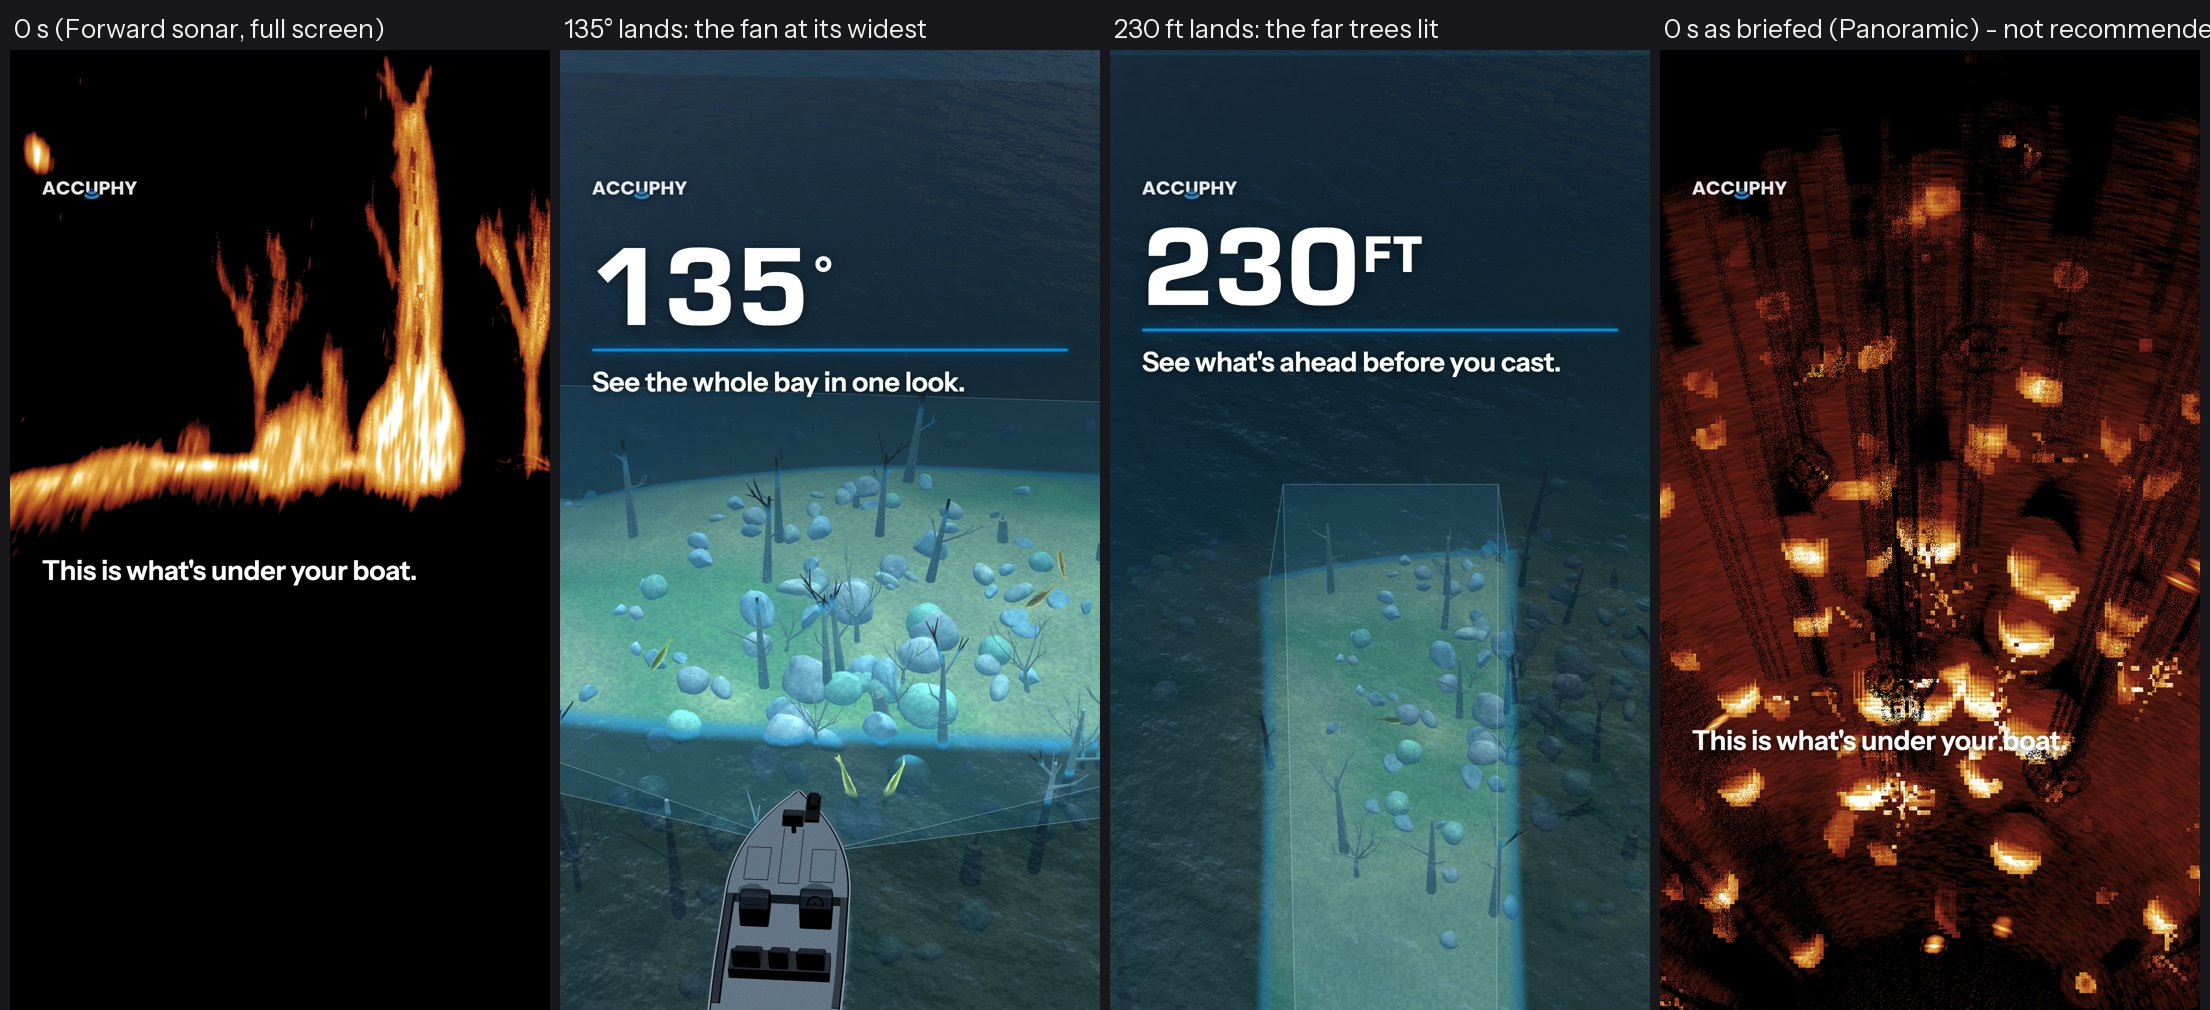
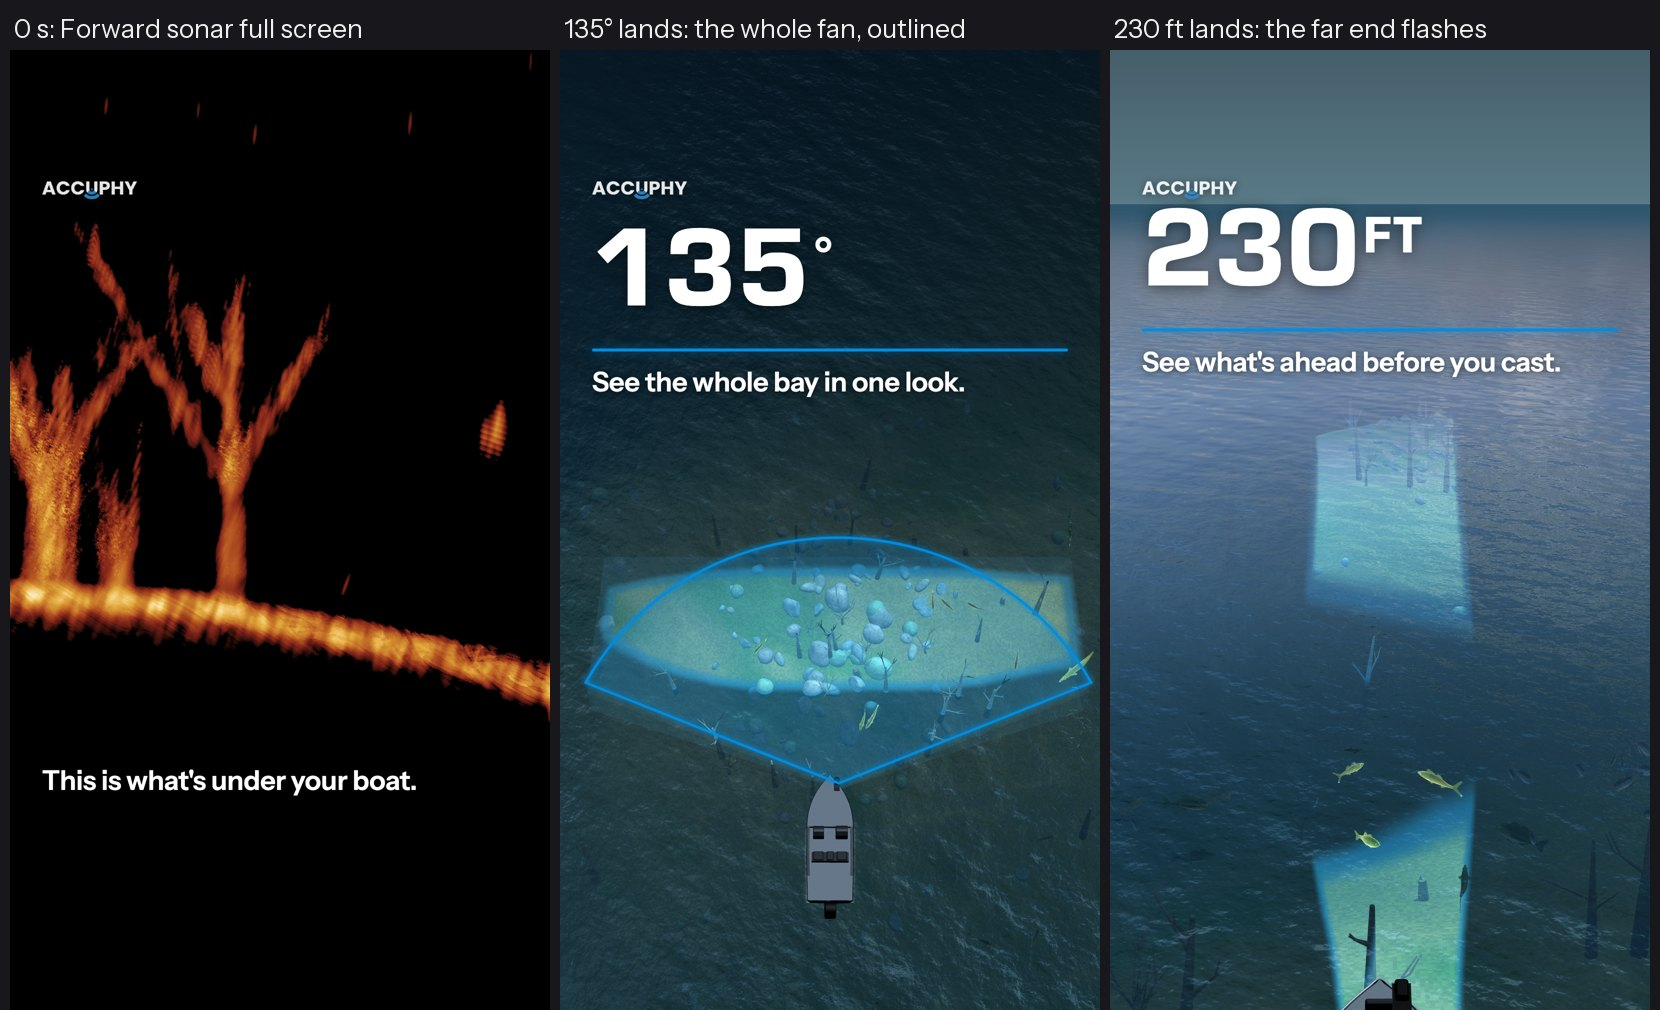
Ad v2 stills, round 2: Forward sonar fills the frame, the whole 135° fan outlined, the 230 ft far end flashes; Creative Cloud Eurostile; dev knobs adBeam / adFlash / __camera

diff --git a/src/experiments/2026-09-23-sonar-lake-3d/lakeMaterial.js b/src/experiments/2026-09-23-sonar-lake-3d/lakeMaterial.js
@@ -33,6 +33,7 @@ export function makeLakeMaterial({ fish = false, structure = false, steel = fals
     uOutGamma: { value: 1.0 },   // ice scene: < 1 brightens the dark water world a little (main view only)
     uAirView: { value: 0.0 },    // the summer lake (Scene.jsx): seen from above the water, the water column over each point tints it — shallows clear, deep water dark — and light patterns play on the shallows; 0 (the ice page, any camera under water): fog by distance as before
     uTime: LAKE_TIME,
+    uFarFlash: { value: new THREE.Vector3(0, 30, 60) }, // dev (ads): a lift of the beam's far part — amount, from, to (metres from the apex); 0 = off
     uBeamGain: { value: 1.0 },   // ice scene: the signal gate (IceCamp.jsx s.signal): the lit footprint fades out while the Mini is out of the water
     uPanoLobe: { value: new THREE.Vector2(0, 0.61) }, // Panoramic as a sound picture (#171): x = on, y = the strip camera's depression (rad); the fish pass weights by the flat fan's lobe
     uSplat: { value: new THREE.Vector3(1, 1, 30) }, // sonar pass 3 (echo splat): tan(half width), tan(half thickness), range of the fan being drawn
@@ -126,7 +127,7 @@ export function makeLakeMaterial({ fish = false, structure = false, steel = fals
       uniform vec3 uApex[${MAX_BEAMS}]; uniform vec3 uC[${MAX_BEAMS}]; uniform vec3 uH[${MAX_BEAMS}]; uniform vec3 uN[${MAX_BEAMS}];
       uniform vec4 uAng[${MAX_BEAMS}]; uniform vec2 uRT[${MAX_BEAMS}]; uniform vec4 uBox[${MAX_BEAMS}];
       uniform vec4 uSplatBig; uniform vec2 uPanoLobe; uniform vec3 uSplat;
-      uniform float uReveal; uniform vec3 uHighlight; uniform float uSonarPass; uniform float uRevealGain; uniform float uOutGamma; uniform vec2 uClip; uniform float uBeamGain;
+      uniform float uReveal; uniform vec3 uHighlight; uniform float uSonarPass; uniform float uRevealGain; uniform float uOutGamma; uniform vec2 uClip; uniform float uBeamGain; uniform vec3 uFarFlash;
       uniform float uAirView; uniform float uTime;
       float lhash(vec2 p) { return fract(sin(dot(p, vec2(127.1, 311.7))) * 43758.5453); }
       float lnoise(vec2 p) { vec2 i = floor(p), f = fract(p); f = f * f * (3.0 - 2.0 * f);
@@ -345,6 +346,7 @@ export function makeLakeMaterial({ fish = false, structure = false, steel = fals
         beam *= uBeamGain; edge *= uBeamGain; // the signal gate (1 on the summer lake): after the rim, so the rim fades too instead of widening
         // outside the beam things stay murky; inside they pop (Garmin look)
         vec3 lit = base * (0.72 + 2.3 * beam * uRevealGain) + uHighlight * 0.3 * beam * uRevealGain + uHighlight * 0.9 * edge;
+        if (uFarFlash.x > 0.0) lit += (base * 2.4 + uHighlight * 0.25) * beam * uFarFlash.x * smoothstep(uFarFlash.y, uFarFlash.z, distance(vWorld, uApex[0])); // dev (ads): the far targets light up
       #ifdef LOGO
         // the brand mark keeps Accuphy blue: a gentler beam lift, no cyan wash (the ×3 lift clipped it to cyan)
         lit = base * (0.95 + 0.85 * beam) + uHighlight * 0.06 * beam + uHighlight * 0.5 * edge;

diff --git a/scripts/dev/ads/v2/overlay2.html b/scripts/dev/ads/v2/overlay2.html
@@ -1,7 +1,7 @@
 <!doctype html>
 <html><head><meta charset="utf-8">
 <style>
-  @font-face { font-family: 'Eurostile Heavy'; src: url('fonts/Eurostile-Heavy.otf') format('opentype'); font-weight: 800; }
+  @font-face { font-family: 'Eurostile Heavy'; src: local('Eurostile Heavy'), local('Eurostile-Hea'); font-weight: 800; } /* URW Eurostile Heavy activated by the company's Creative Cloud (HQ 2026-10-26): no font file is shipped or read */
   @font-face { font-family: 'Instrument Sans'; src: url('fonts/InstrumentSans-Variable.ttf') format('truetype'); font-weight: 400 700; }
   html, body { margin: 0; background: #000; }
   #stage { position: relative; width: 1080px; height: 1920px; overflow: hidden; }
@@ -22,6 +22,7 @@
 <div id="stage">
   <img id="bg">
   <div id="grad"></div>
+  <svg id="fan" width="1080" height="1920" style="position:absolute;left:0;top:0;overflow:visible"><defs><filter id="glow" x="-20%" y="-20%" width="140%" height="140%"><feGaussianBlur stdDeviation="6" result="b"/><feMerge><feMergeNode in="b"/><feMergeNode in="SourceGraphic"/></feMerge></filter></defs><path id="fanp" d="" fill="rgba(2,140,223,0.10)" stroke="#028CDF" stroke-width="5" stroke-linejoin="round" filter="url(#glow)"/></svg>
   <img id="mark" src="logo.png">
   <div id="block">
     <div class="num" id="num"><span id="n"></span><span class="unit" id="unit"></span></div>
@@ -34,6 +35,7 @@
   window.setStill = (c) => {
     const $ = (id) => document.getElementById(id)
     $('bg').src = c.bg; $('grad').style.opacity = c.grad ? 1 : 0
+    $('fanp').setAttribute('d', c.fan ? 'M' + [c.fan.apex, ...c.fan.arc].map((q) => q.join(',')).join(' L') + ' Z' : '') // the beam's 135° on the water, projected from the 3D view
     $('block').style.top = c.top + 'px'
     $('num').classList.toggle('hidden', !c.num); $('rule').classList.toggle('hidden', !c.num)
     $('n').textContent = c.num || ''; $('unit').textContent = c.unit || ''

diff --git a/src/experiments/2026-09-23-sonar-lake-3d/Scene.jsx b/src/experiments/2026-09-23-sonar-lake-3d/Scene.jsx
@@ -541,6 +541,7 @@ function Boat({ state, beamMats }) {
     group.current.position.set(s.boat.x, 0.02, s.boat.z)
     s.apex.copy(TRANSDUCER_OFFSET).add(group.current.position)
     setBeamUniforms(beamMats, fanned(s), s.apex)
+    if (import.meta.env.DEV) { const f = s.adFlash || [0, 30, 60]; for (const m of beamMats) m.userData.uniforms.uFarFlash?.value.set(f[0], f[1], f[2]) } // dev (ads): [amount, from, to]
     { // the drag cue: breathes a little, ripples every 2.6 s; out during a drag, back once the boat has settled.
       // s.cueHide also gates the caption (Rig); the ice page leaves it unset and keeps its own rule (hidden after the first tap)
       const moving = s.dragging || Math.hypot(s.target.x - s.boat.x, s.target.z - s.boat.z) * 4 > 0.25 // m/s, as `speed` below
@@ -607,6 +608,7 @@ function Beams({ state, ice = false }) {
     group.current.traverse((o) => {
       if (!o.material) return
       o.material.opacity = (o.isLineSegments ? (ice ? 0.75 : 0.6) : (ice ? 0.2 : 0.11)) * sig
+      if (import.meta.env.DEV && s.adBeam) o.material.opacity = o.isLineSegments ? s.adBeam.line : s.adBeam.face // dev (ads): the wedge's outline and faces
     })
   })
   return (
@@ -649,6 +651,7 @@ function Rig({ state, sonarRect, fogMats, cam = LAKE_CAM }) {
   const k0 = useRef(0)
   useFrame(({ clock }, dt) => {
     const s = state.current
+    if (import.meta.env.DEV) window.__camera = camera // dev (ads): to project lake points onto the screen for overlays
     if (import.meta.env.DEV && s.camOverride) { // dev (ads, BF ad v2): the camera set from outside — { pos, look, fov }
       const o = s.camOverride
       if (camera.view?.enabled) camera.clearViewOffset()

diff --git a/scripts/dev/ads/v2/README.md b/scripts/dev/ads/v2/README.md
@@ -10,3 +10,14 @@ Brief: `docs/2026-10-26-ad-v2-pinglive-brief.md`. Stills board: `docs/2026-10-26
 - `overlay2.html` + `stills.mjs <dir> <out>`: the type over a background. Eurostile Heavy number, brand-blue rule, one
   Instrument Sans line, the small wordmark top left at y 262. Run them with the fonts in `<dir>/fonts` and the logo as
   `<dir>/logo.png`.
+
+Round 2 (HQ's review, 2026-10-26):
+- **Type:** Eurostile Heavy comes from the company's Creative Cloud activation: `local('Eurostile Heavy')` in
+  `overlay2.html`. No font file is read; Creative Cloud must be running.
+- **0 s:** `v2s0c.mjs` renders PL Forward on the shelf (−40, −5) at 50 ft. The still is the portrait crop x 1520,
+  rows 120–880 of the 2600×1250 flat, so the trees and the bottom fill ~70 %, with one fish right of centre.
+- **135° and 230 ft:** `v2bg3.mjs`.
+  - Panoramic at 50 ft from high behind the boat. The fan's outline on the water is projected from the 3D camera
+    (`window.__camera`, dev) into `pano-g.json` and drawn in brand blue by `overlay2.html`.
+  - Forward at 230 ft from low behind the boat, with no wedge drawn (`adBeam`) and the far end lit
+    (`adFlash` = [4.5, 36, 62]: amount, from, to in metres; lakeMaterial `uFarFlash`, dev).
